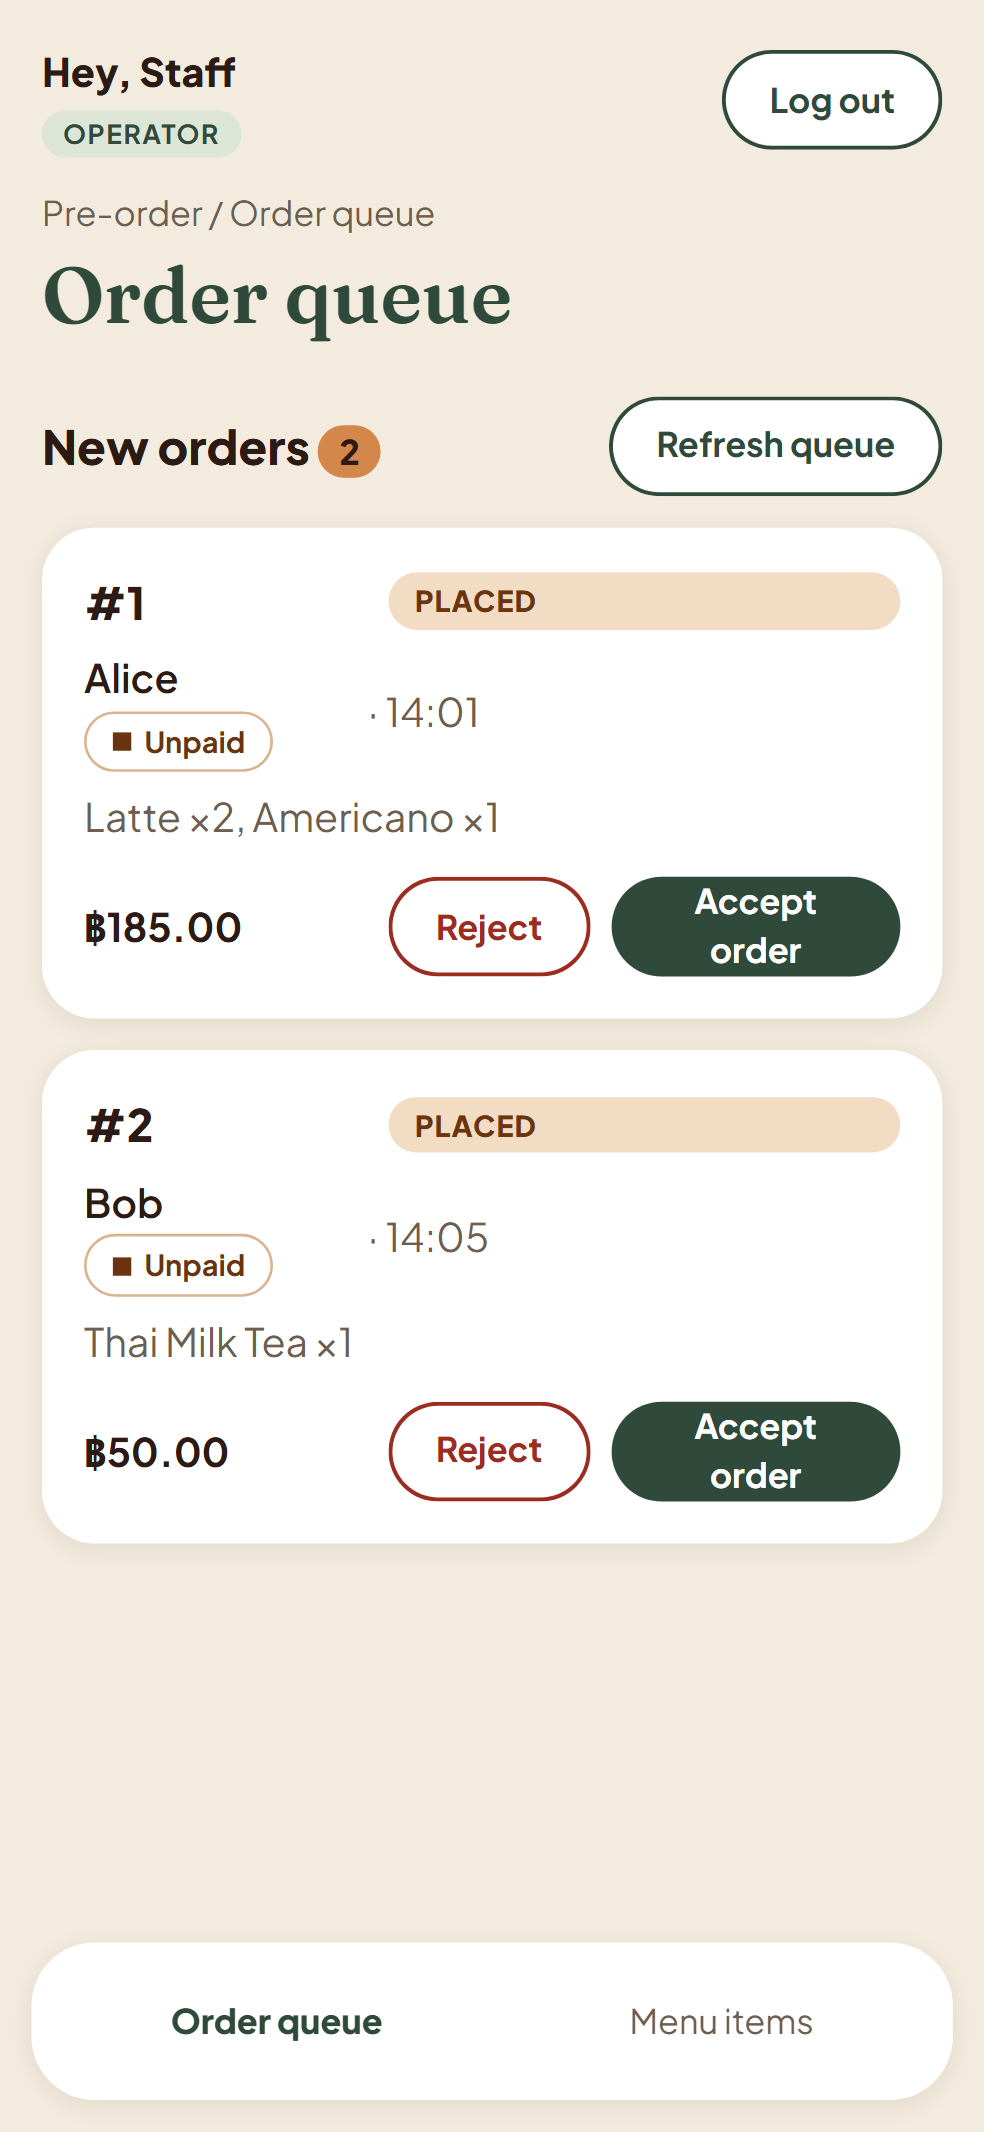
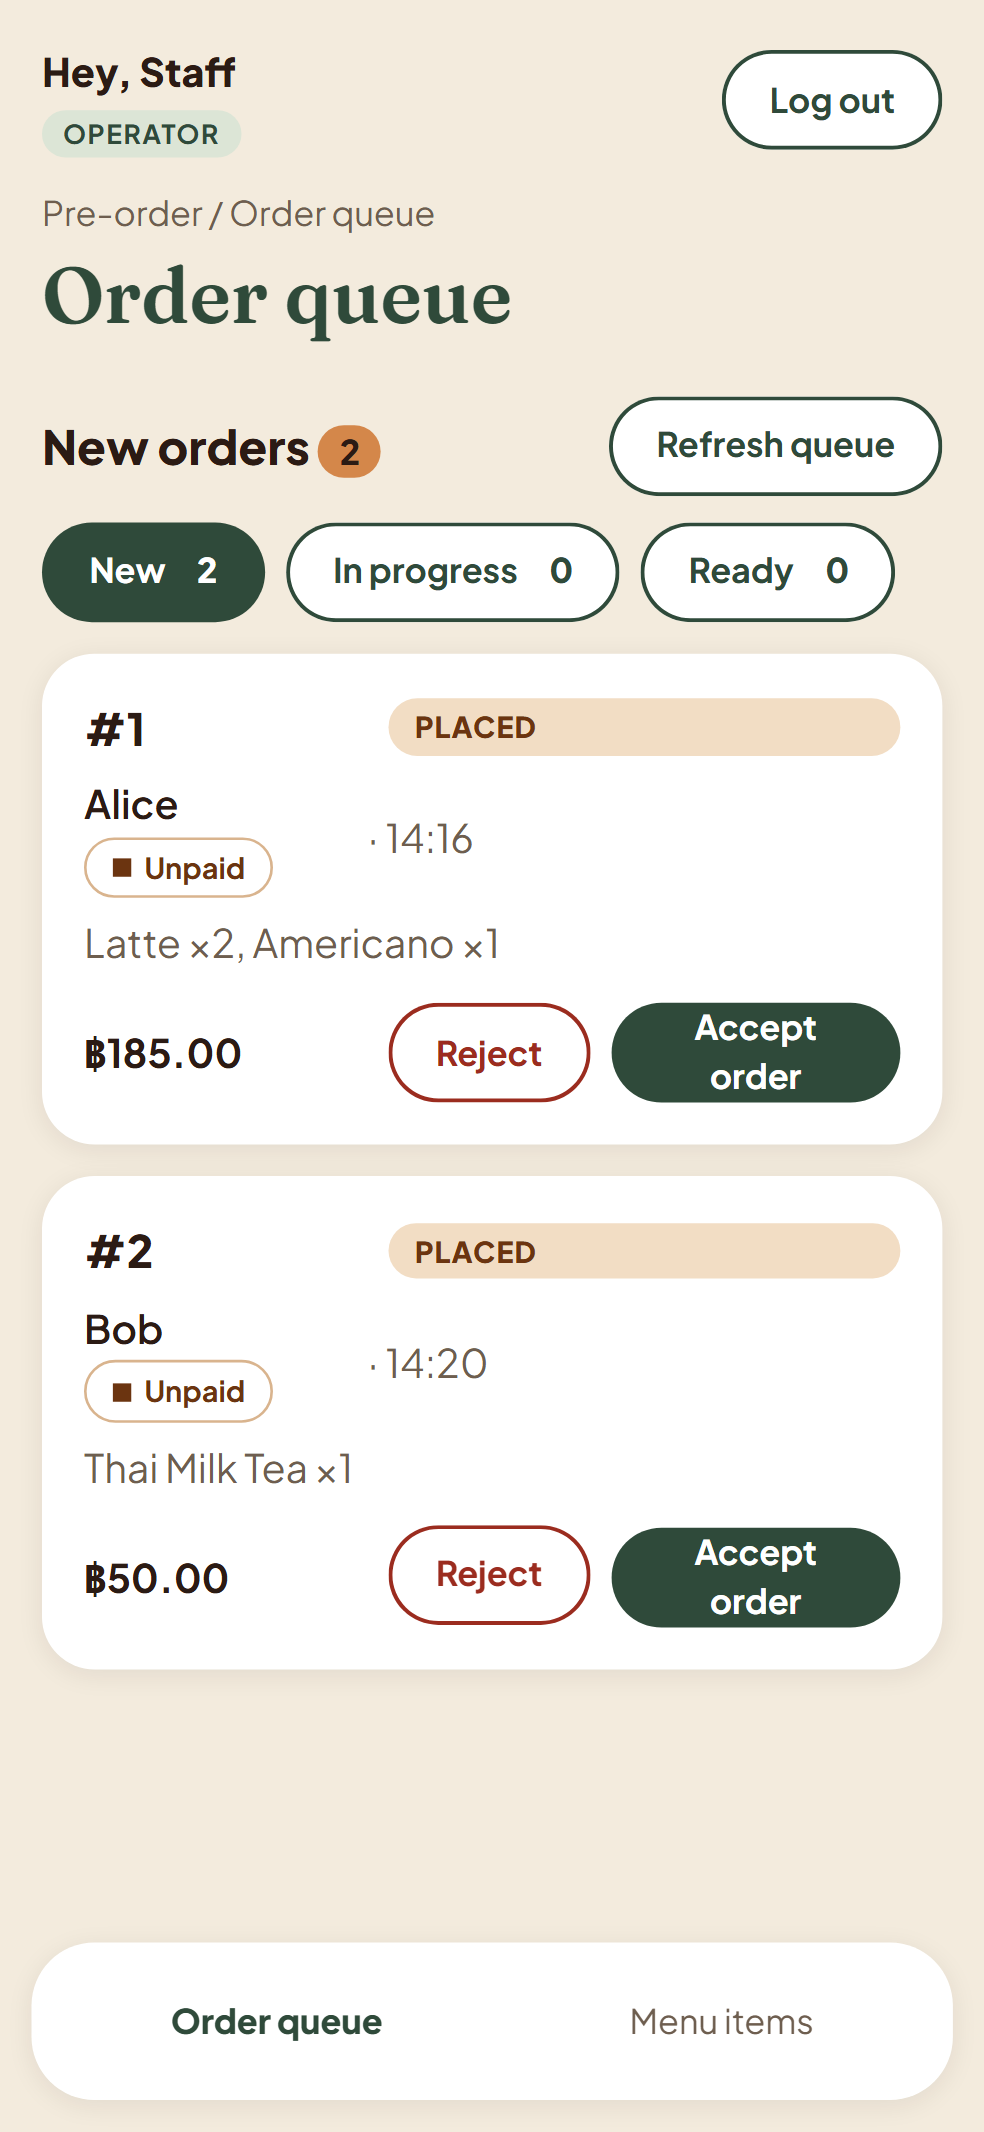
feat(F-07): [green] operator queue tabs and next-step buttons; order detail texts for the new steps

Changed region(s): [[0.0305, 0.2477, 0.9756, 0.8049]]

diff --git a/client/src/pages/QueuePage.tsx b/client/src/pages/QueuePage.tsx
@@ -1,13 +1,15 @@
 import { useCallback, useEffect, useState } from "react";
+import { useSearchParams } from "react-router-dom";
 import { api, ApiError, NETWORK_MESSAGE } from "../api";
 import { formatBaht as baht } from "../lib/money";
 import { formatPlacedTime } from "../lib/time";
 import { PaymentBadge } from "../components/Payment";
 import { Dialog } from "../components/Dialog";
-import type { PaymentStatus } from "../lib/orders";
+import type { OrderStatus, PaymentStatus } from "../lib/orders";
 
 type QueueOrder = {
   id: number;
+  status: OrderStatus;
   total: number;
   createdAt: string;
   paymentStatus: PaymentStatus;
@@ -15,10 +17,24 @@ type QueueOrder = {
   lines: { name: string; quantity: number }[];
 };
 
+// F-07: three tabs over the open orders. The tab is kept in the URL (?tab=new|progress|ready).
+const TABS = [
+  { key: "new", label: "New", title: "New orders", statuses: ["PLACED"] },
+  { key: "progress", label: "In progress", title: "In progress", statuses: ["ACCEPTED", "PREPARING"] },
+  { key: "ready", label: "Ready", title: "Ready for pickup", statuses: ["READY"] },
+] as const;
+// The one next step a card offers; `to` is the status shown in the toast (BR-13).
+const NEXT = {
+  ACCEPTED: { from: "ACCEPTED", label: "Start preparing", busy: "Starting…", done: (id: number) => `Order #${id} is now Preparing.` },
+  PREPARING: { from: "PREPARING", label: "Mark ready", busy: "Marking ready…", done: (id: number) => `Order #${id} is ready.` },
+  READY: { from: "READY", label: "Mark picked up", busy: "Marking picked up…", done: (id: number) => `Order #${id} picked up.` },
+} as const;
+
 const items = (o: QueueOrder) => o.lines.map((l) => `${l.name} ×${l.quantity}`).join(", ");
 
 export function QueuePage() {
   const [orders, setOrders] = useState<QueueOrder[] | null>(null);
+  const [params, setParams] = useSearchParams();
   const [loadError, setLoadError] = useState(false);
   const [busyId, setBusyId] = useState<number | null>(null);
   const [rejecting, setRejecting] = useState<QueueOrder | null>(null);
@@ -29,7 +45,7 @@ export function QueuePage() {
   const load = useCallback(async () => {
     setLoadError(false);
     try {
-      setOrders(await api<QueueOrder[]>("/api/operator/orders?status=PLACED"));
+      setOrders(await api<QueueOrder[]>("/api/operator/orders?status=PLACED,ACCEPTED,PREPARING,READY"));
     } catch {
       setLoadError(true);
     }
@@ -45,13 +61,33 @@ export function QueuePage() {
     try {
       await api(`/api/operator/orders/${id}/accept`, { method: "POST" });
       setMessage({ kind: "success", text: `Order #${id} accepted.` });
-      setOrders((list) => list?.filter((o) => o.id !== id) ?? null);
+      await load();
     } catch (err) {
       const e = err instanceof ApiError ? err : null;
       if (e?.status === 409) setMessage({ kind: "error", text: `Order #${id}: ${e.message}` });
       else if (e?.status === 404) setMessage({ kind: "error", text: `Order #${id} no longer exists.` });
       else setMessage({ kind: "error", text: NETWORK_MESSAGE });
       if (e?.status === 409 || e?.status === 404) await load(); // what is on screen is out of date
+    } finally {
+      setBusyId(null);
+    }
+  }
+
+  // F-07: move an order one step. `from` is the status this card shows, so a stale press gets a 409.
+  async function step(o: QueueOrder & { status: keyof typeof NEXT }) {
+    const next = NEXT[o.status];
+    setBusyId(o.id);
+    setMessage(null);
+    try {
+      await api(`/api/operator/orders/${o.id}/advance`, { method: "POST", body: { from: next.from } });
+      setMessage({ kind: "success", text: next.done(o.id) });
+      await load();
+    } catch (err) {
+      const e = err instanceof ApiError ? err : null;
+      if (e?.status === 409) setMessage({ kind: "error", text: `Not moved. ${e.message}` });
+      else if (e?.status === 404) setMessage({ kind: "error", text: `Order #${o.id} no longer exists.` });
+      else setMessage({ kind: "error", text: NETWORK_MESSAGE });
+      if (e?.status === 409 || e?.status === 404) await load();
     } finally {
       setBusyId(null);
     }
@@ -75,8 +111,8 @@ export function QueuePage() {
     try {
       await api(`/api/operator/orders/${id}/reject`, { method: "POST", body: { reason: text } });
       setMessage({ kind: "success", text: `Order #${id} rejected. The customer can see your reason.` });
-      setOrders((list) => list?.filter((o) => o.id !== id) ?? null);
       setRejecting(null);
+      await load();
     } catch (err) {
       const e = err instanceof ApiError ? err : null;
       setRejecting(null);
@@ -112,22 +148,38 @@ export function QueuePage() {
       </div>
     );
 
+  const tab = TABS.find((t) => t.key === params.get("tab")) ?? TABS[0];
+  const countOf = (statuses: readonly string[]) => orders.filter((o) => statuses.includes(o.status)).length;
+  const shown = orders.filter((o) => (tab.statuses as readonly string[]).includes(o.status));
   const now = Date.now();
-  const oldestMin = orders.length ? Math.floor((now - Date.parse(orders[0].createdAt)) / 60000) : 0;
+  const oldestMin = shown.length ? Math.floor((now - Date.parse(shown[0].createdAt)) / 60000) : 0;
   const stats = [
-    { label: "Waiting orders", value: String(orders.length) },
+    { label: "Waiting orders", value: String(shown.length) },
     { label: "Oldest waiting", value: `${oldestMin} min` },
-    { label: "Items to make", value: String(orders.reduce((n, o) => n + o.lines.reduce((m, l) => m + l.quantity, 0), 0)) },
-    { label: "Queue value", value: baht(orders.reduce((n, o) => n + o.total, 0)) },
+    { label: "Items to make", value: String(shown.reduce((n, o) => n + o.lines.reduce((m, l) => m + l.quantity, 0), 0)) },
+    { label: "Queue value", value: baht(shown.reduce((n, o) => n + o.total, 0)) },
   ];
 
   return (
     <section>
       <div className="queue-head">
         <h2 className="section-title">
-          New orders <span className="count">{orders.length}</span>
+          {tab.title} <span className="count">{shown.length}</span>
         </h2>
         {refresh}
+      </div>
+      <div role="tablist" className="queue-tabs">
+        {TABS.map((t) => (
+          <button
+            key={t.key}
+            role="tab"
+            aria-selected={t.key === tab.key}
+            className={"btn small " + (t.key === tab.key ? "" : "ghost")}
+            onClick={() => setParams(t.key === "new" ? {} : { tab: t.key })}
+          >
+            {t.label} <span className="tab-count">{countOf(t.statuses)}</span>
+          </button>
+        ))}
       </div>
       {message && (
         <div className={"msg " + message.kind} role={message.kind === "error" ? "alert" : "status"}>
@@ -142,10 +194,10 @@ export function QueuePage() {
           </div>
         ))}
       </div>
-      {orders.length === 0 ? (
+      {shown.length === 0 ? (
         <div className="empty">
-          <p className="empty-title">No new orders.</p>
-          <p className="muted">New orders appear here when you refresh.</p>
+          <p className="empty-title">{tab.key === "new" ? "No new orders." : "Nothing here."}</p>
+          {tab.key === "new" && <p className="muted">New orders appear here when you refresh.</p>}
         </div>
       ) : (
         // Phone: one card per order. Desktop: the same items laid out as table rows (styles.css).
@@ -158,10 +210,10 @@ export function QueuePage() {
             <span>Total</span>
             <span>Action</span>
           </li>
-          {orders.map((o) => (
+          {shown.map((o) => (
             <li className="card order-card" key={o.id} data-testid={`order-${o.id}`}>
               <span className="q-no order-no">#{o.id}</span>
-              <span className="q-pill pill placed">PLACED</span>
+              <span className={`q-pill pill ${o.status.toLowerCase()}`}>{o.status}</span>
               <span className="q-who">
                 {o.customer.name} <PaymentBadge status={o.paymentStatus} />
               </span>
@@ -169,12 +221,20 @@ export function QueuePage() {
               <span className="q-items muted">{items(o)}</span>
               <strong className="q-total">{baht(o.total)}</strong>
               <span className="q-action q-buttons">
-                <button className="btn small danger-outline" disabled={busyId === o.id} onClick={() => openReject(o)}>
-                  Reject
-                </button>
-                <button className="btn small" disabled={busyId === o.id} onClick={() => accept(o.id)}>
-                  {busyId === o.id ? "Accepting…" : "Accept order"}
-                </button>
+                {o.status === "PLACED" ? (
+                  <>
+                    <button className="btn small danger-outline" disabled={busyId === o.id} onClick={() => openReject(o)}>
+                      Reject
+                    </button>
+                    <button className="btn small" disabled={busyId === o.id} onClick={() => accept(o.id)}>
+                      {busyId === o.id ? "Accepting…" : "Accept order"}
+                    </button>
+                  </>
+                ) : o.status in NEXT ? (
+                  <button className="btn small" disabled={busyId === o.id} onClick={() => step(o as QueueOrder & { status: keyof typeof NEXT })}>
+                    {busyId === o.id ? NEXT[o.status as keyof typeof NEXT].busy : NEXT[o.status as keyof typeof NEXT].label}
+                  </button>
+                ) : null}
               </span>
             </li>
           ))}

diff --git a/client/src/styles.css b/client/src/styles.css
@@ -257,3 +257,10 @@ button[disabled] { cursor: not-allowed; }
 .final-card { margin: 12px 0; padding: 12px; border-radius: 14px; background: #ede6de; color: #5b4e42; }
 .final-card.rejected { background: #fde3e0; color: #7a1c12; }
 @media (min-width: 720px) { .dialog-backdrop { align-items: center; } .dialog { border-radius: 20px; } }
+.queue-tabs { display: flex; gap: 8px; margin: 10px 0; flex-wrap: wrap; }
+.tab-count { margin-left: 4px; font-weight: 800; }
+.pill.preparing { background: #e0b07a; color: #2b1b14; }
+.pill.ready { background: #2f4a3a; color: #fff; }
+.pill.picked_up { background: #e9e2d8; color: #4a3b30; }
+.pill.rejected { background: #fde3e0; color: #7a1c12; }
+.pill.cancelled { background: #ede6de; color: #5b4e42; }

diff --git a/client/src/pages/OrdersPage.tsx b/client/src/pages/OrdersPage.tsx
@@ -112,6 +112,9 @@ export function OrdersPage({ selectedId }: { selectedId?: string }) {
 const HINT: Partial<Record<OrderStatus, string>> = {
   PLACED: "Waiting for the café to accept your order.",
   ACCEPTED: "Accepted — being prepared soon.",
+  PREPARING: "Your order is being prepared.",
+  READY: "Ready! Show your order number at the counter.",
+  PICKED_UP: "Picked up. Enjoy!",
 };
 
 // F-06: Cancel area, only while PLACED (BR-11). The server checks again and answers 409 if the order moved on.

diff --git a/e2e/fulfilment.spec.ts b/e2e/fulfilment.spec.ts
@@ -69,7 +69,7 @@ test.describe("F-07 fulfilment", () => {
     await logout(page);
     await loginAs(page, "bob@cafe.test");
     await page.goto(`/orders/${accepted}`);
-    await expect(page.locator(".pill")).toContainText("PREPARING");
+    await expect(page.locator(".order-detail .pill")).toContainText("PREPARING");
     await expect(page.getByText("Your order is being prepared.")).toBeVisible();
   });
 });
